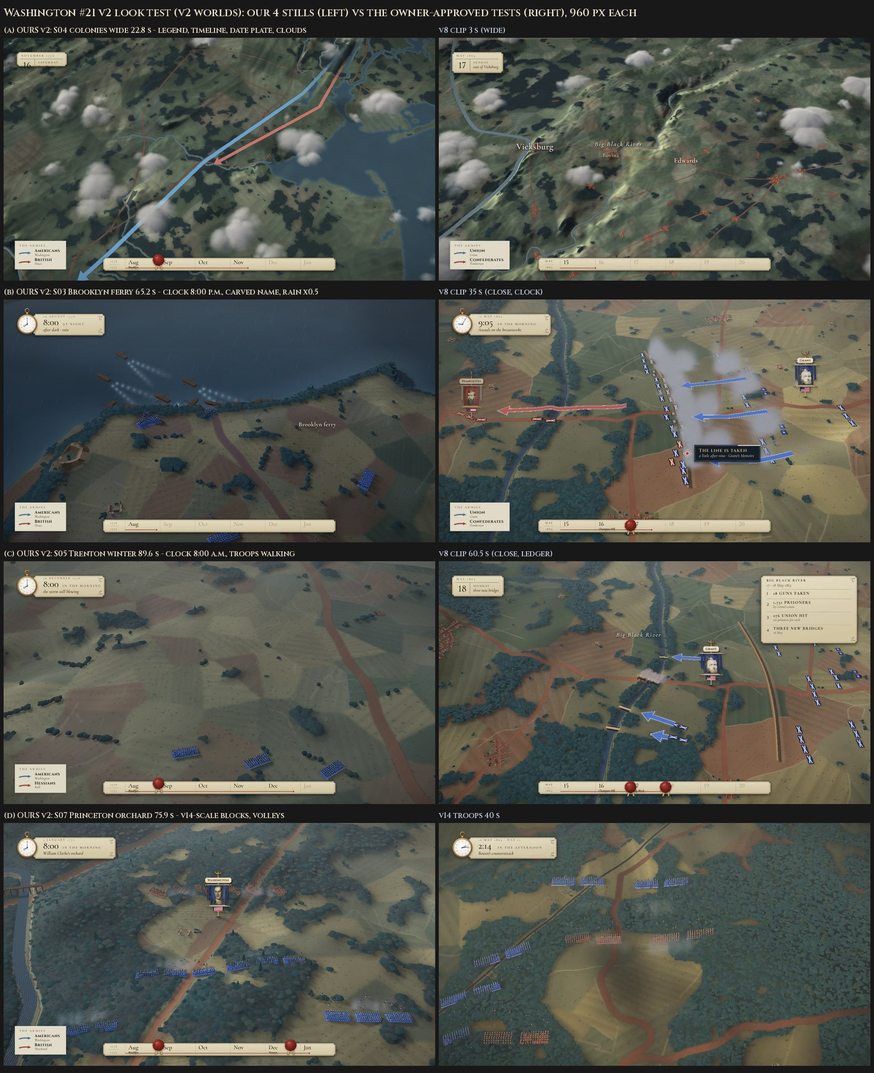
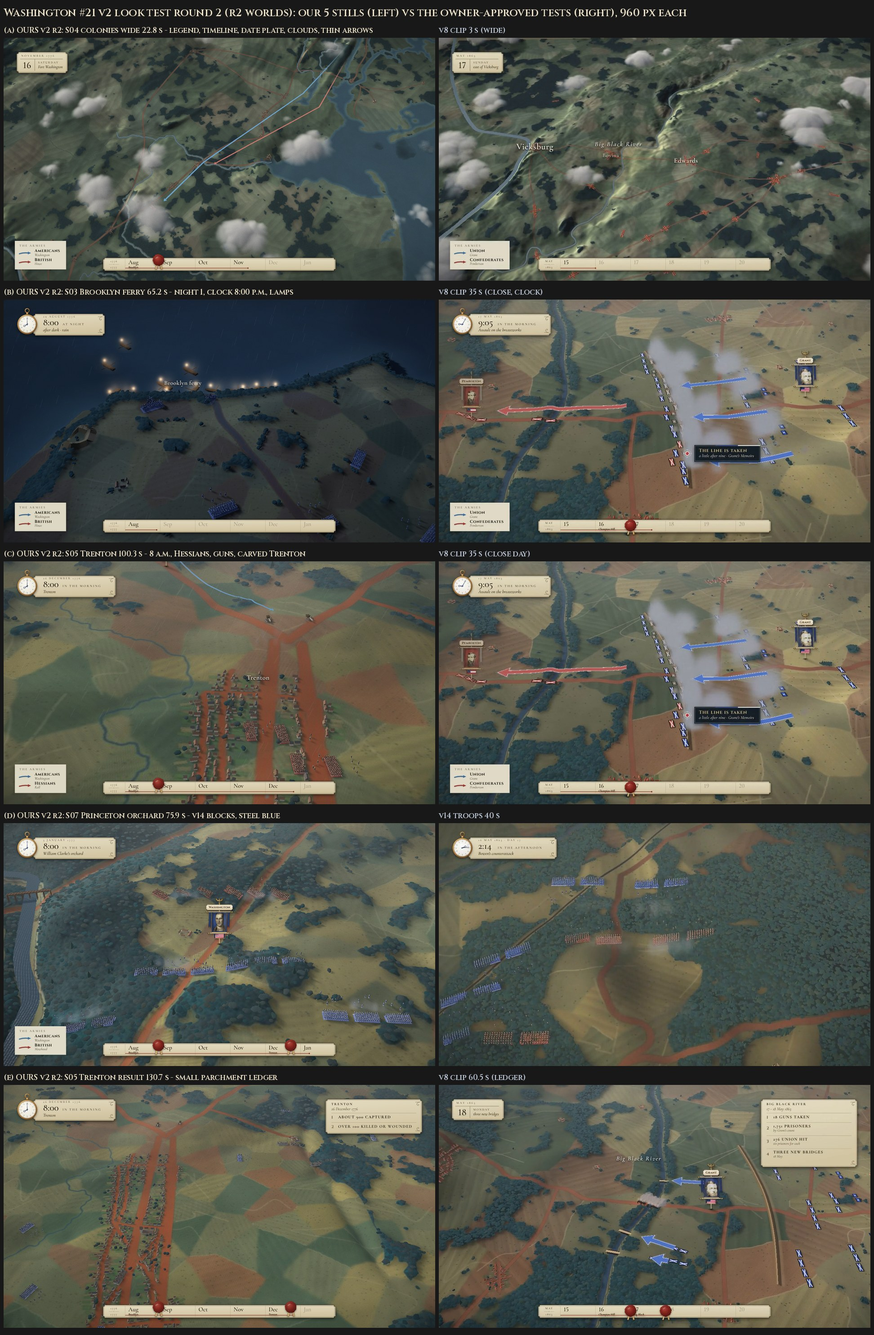
Washington v2: test round 2 (recipe section 6, 5-row sheet), overlay plate re-measure, troopsOpts.pal
Claude-Session: https://claude.ai/code/session_011uJnjBmWWPVu63DLzFZfyj

diff --git a/washington/sequences/_v2test_c/seq.js b/washington/sequences/_v2test_c/seq.js
@@ -234,7 +234,7 @@ const labels = [
   { text: "Delaware River", at: at(-3.4, 0.6), region: CR, size: 16, river: true, t0: T.river2 - 0.05, t1: T.river2 + 3.2 },
   { text: "Trenton", at: [TRj[0] + 0.5, TRj[1] + 6.0], region: JE, size: 20, t0: T.trenton2 - 0.3, t1: T.trenton2 + 3.0 },   // the march's goal ("Trenton" 78.89)
   { text: "Birmingham", at: [BIRj[0] - 9, BIRj[1] + 4], region: JE, size: 15, t0: T.crossroads - 0.05, t1: T.crossroads + 3.4 },
-  { text: "Trenton", at: [1353.0, 2055.6], region: TR, size: 20, t0: 97.6, t1: 101.1 },   // V2 r2: carved on "the town's two main streets"
+  { text: "Trenton", at: [1355.0, 2056.6], region: TR, size: 20, t0: 97.6, t1: 101.1 },   // V2 r2: carved on "the town's two main streets"
   { text: "Assunpink Creek", at: [1364.0, 2071.4], region: TR, size: 15, river: true, t0: T.creek - 0.05, t1: T.creek + 3.4 },
   { text: "New York", at: [NYc[0] + 2, NYc[1] - 10], region: CO, size: 20, t0: T.newyork - 0.05, t1: T.newyork + 3.6 },
   { text: "Trenton", at: [TRc[0] + 2, TRc[1] + 8], region: CO, size: 18, t0: T.trenton3 - 0.05, t1: T.D + 1 },
